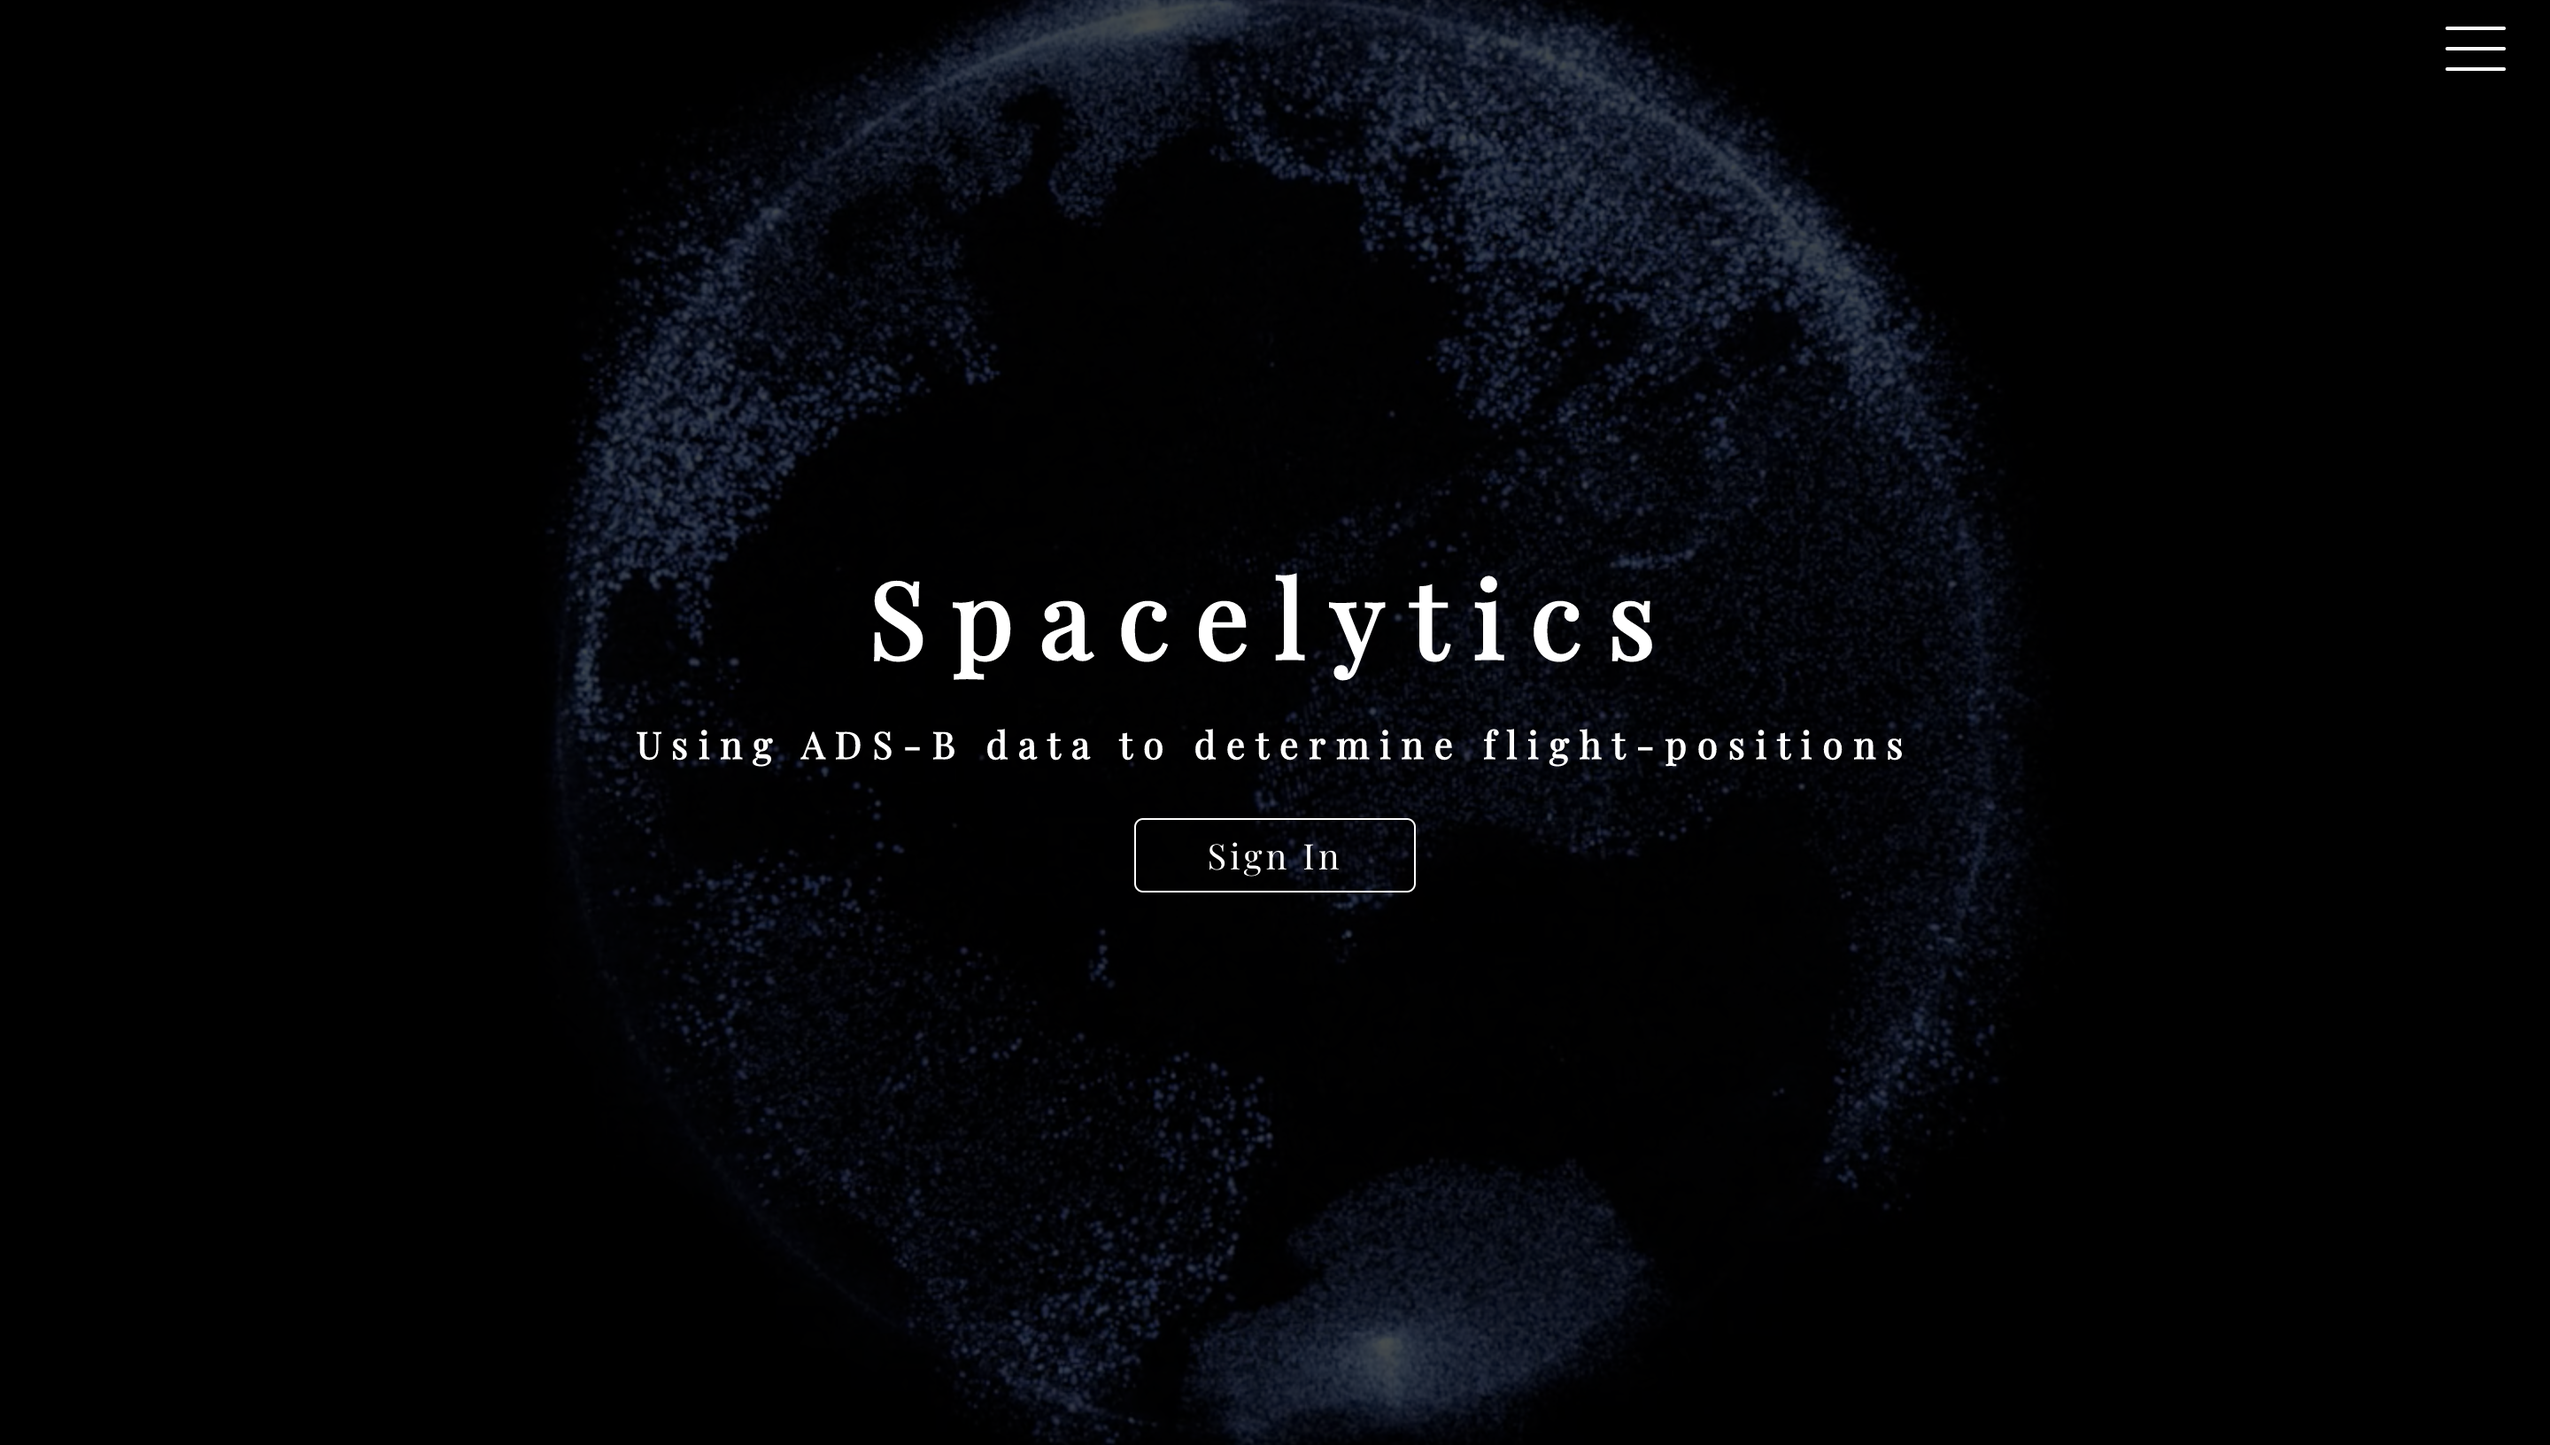
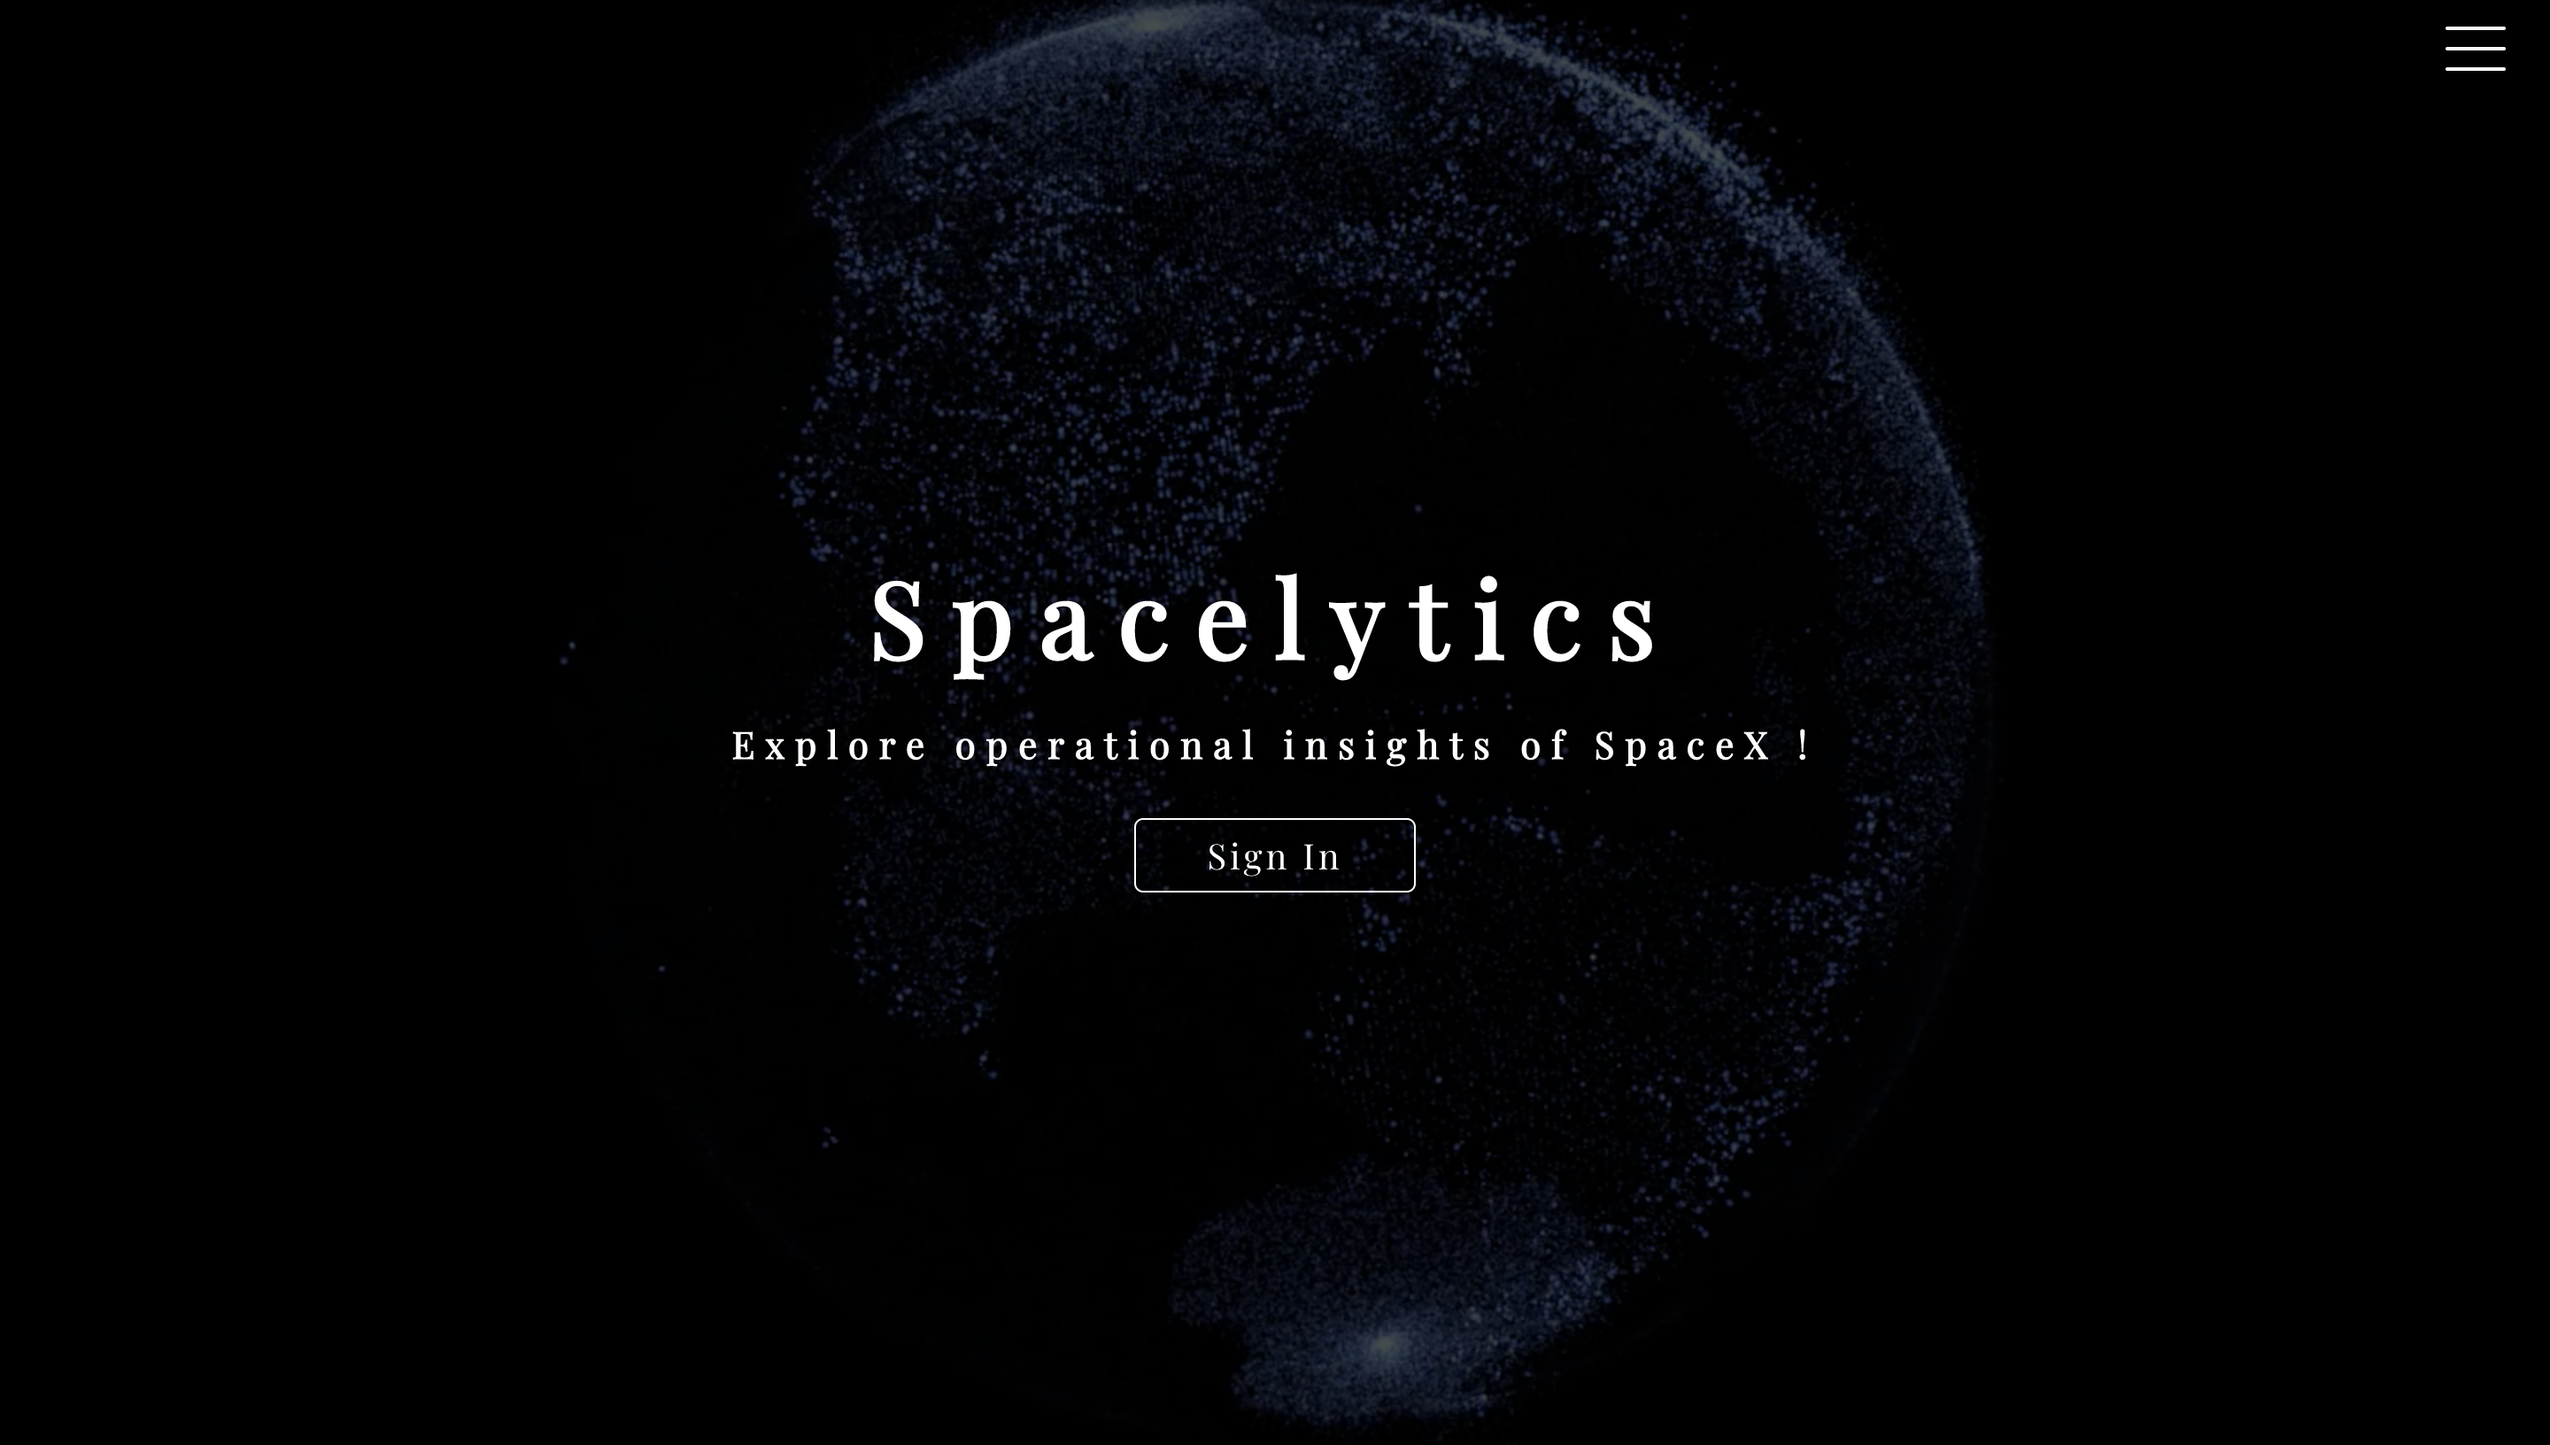
Change screenshot in readme

diff --git a/pages/index.js b/pages/index.js
@@ -12,7 +12,7 @@ const Home = () => {
       <BgVideo clicked={clicked} pause={clicked}>
         <FrontPageContent
           heading={'Spacelytics'}
-          subheading={'Using ADS-B data to determine flight-positions'}
+          subheading={'Explore operational insights of SpaceX ! '}
         />
 
         {clicked ? <SideNavigation /> : null}
